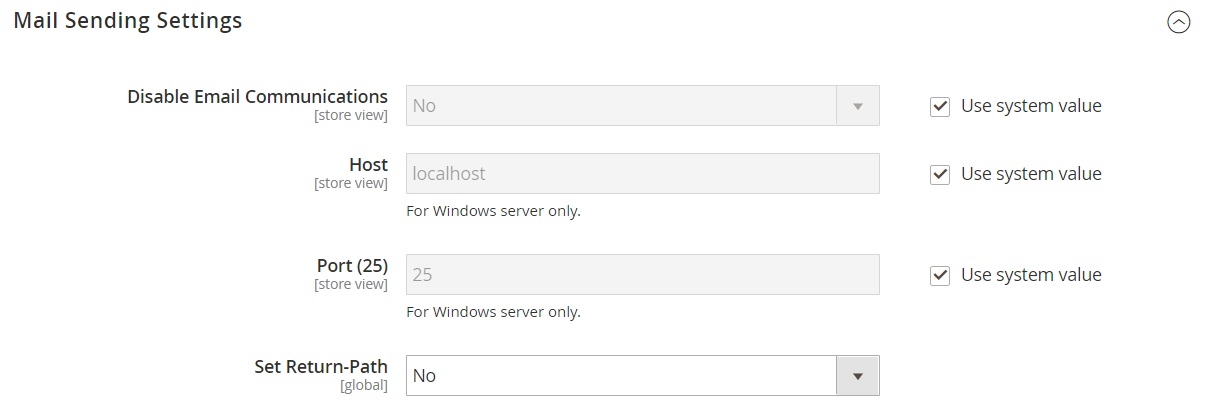
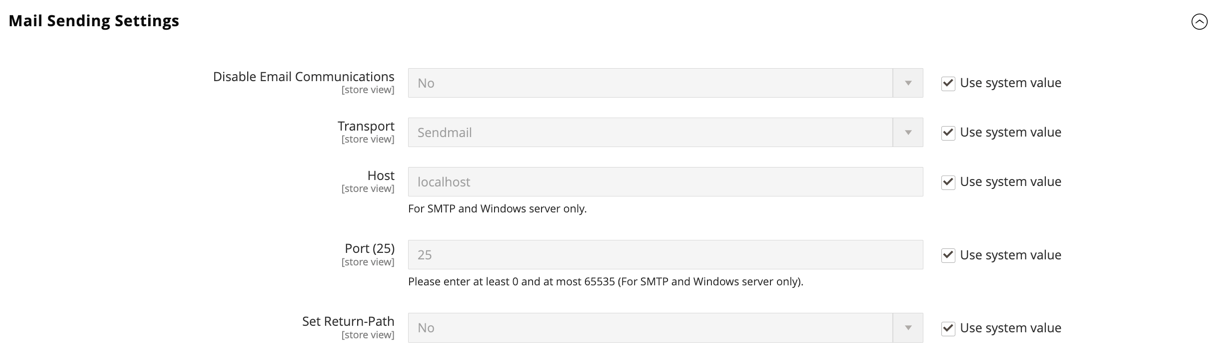
COMDOX-549: Add SMTP email config

diff --git a/help/configuration-reference/advanced/system.md b/help/configuration-reference/advanced/system.md
@@ -27,7 +27,7 @@ For more information about changing these configuration settings, see [Cron (sch
 |[!UICONTROL Failure History Lifetime]|Global|Determines the number of minutes that the record of failed cron jobs is kept in the database.|
 |[!UICONTROL Use Separate Process]|Global|Determines if cron jobs are executed in parallel as separate processes. Options: `Yes` / `No`|
 
-{:style="table-layout:auto"}
+{style="table-layout:auto"}
 
 ### [!UICONTROL default]
 
@@ -43,7 +43,7 @@ For more information about changing these configuration settings, see [Cron (sch
 |[!UICONTROL Failure History Lifetime]|Global|Determines the number of minutes that the record of failed cron jobs is kept in the database.|
 |[!UICONTROL Use Separate Process]|Global|Determines if cron jobs are executed in parallel as separate processes. Options: `Yes` / `No`|
 
-{:style="table-layout:auto"}
+{style="table-layout:auto"}
 
 ## [!UICONTROL MySQL Message Queue Cleanup]
 
@@ -58,7 +58,7 @@ For more information about changing these configuration settings, see [Cron (sch
 |[!UICONTROL Failed Messages Lifetime]|Global|Determines the lifetime of failed messages in minutes. Enter zero to skip the cleanup. Default: `10080` (7 days)|
 |[!UICONTROL Retry Messages in Progress After]|Global|Determines how long the system waits for a message in progress before retrying. Default: `1440` (24 hours)|
 
-{:style="table-layout:auto"}
+{style="table-layout:auto"}
 
 ## [!UICONTROL Mail Sending Settings]
 
@@ -68,17 +68,32 @@ For more information about changing these settings, see [Configure email communi
 
 >[!IMPORTANT]
 >
->**Security Notice** We recommend that all merchants immediately set their mail sending configuration to protect against a recently identified potential remote code execution exploit. Until this issue is resolved, we highly recommend that you avoid using [!DNL Sendmail] for email communications. In the [!UICONTROL Mail Sending Settings], make sure that [!UICONTROL Set Return Path] is set to `No`.
+>**Security Notice** We recommend that all merchants immediately set their mail sending configuration to protect against a recently identified potential remote code execution exploit. Until this issue is resolved, it is highly recommended that you avoid using [!DNL Sendmail] for email communications. In the [!UICONTROL Mail Sending Settings], make sure that [!UICONTROL Set Return Path] is set to `No`.
 
 |Field|[Scope](../../getting-started/websites-stores-views.md#scope-settings)|Description|
 |--- |--- |--- |
 |[!UICONTROL Disable Email Communications]|Store View|Determines if email communications are activated for the store. Options: `Yes` / `No`|
-|[!UICONTROL Host]|Store View|(For Windows server only) Determines the name that is used to refer to the host. Default value: `localhost`|
-|[!UICONTROL Port (25)]|Store View|(For Windows server only) Identifies the port used for email communications. Default value: `25`|
+|[!UICONTROL Transport] |Store View| Determines the transport type for email communications from the store. Options: `Sendmail` / `SMTP` |
+|[!UICONTROL Host]|Store View|(For SMTP and Windows servers only) Determines the name that is used to refer to the host. Default value: `localhost`|
+|[!UICONTROL Port (25)]|Store View|(For SMTP and Windows servers only) Identifies the port used for email communications. Default value: `25`|
 |[!UICONTROL Set Return-Path]|Store View|Determines if a routing address is used for returned emails. Options: `No` / `Yes` / `Specified`|
-|[!UICONTROL Return-Path Email]|Global|Specifies the routing email address for returned emails.|
 
-{:style="table-layout:auto"}
+{style="table-layout:auto"}
+
+### SMTP options
+
+When you select SMTP at the transport type, additional options are available to configure the SMTP server connection.
+
+![Advanced configuration - Mail Sending Settings with SMTP](./assets/system-mail-sending-settings-smtp.png)<!-- zoom -->
+
+|Field|[Scope](../../getting-started/websites-stores-views.md#scope-settings)|Description|
+|--- |--- |--- |
+|[!UICONTROL Username] | Store View | Login user name for the SMTP server. |
+|[!UICONTROL Password] | Store View | Password for the SMTP server login. |
+|[!UICONTROL Auth] | Store View | Determines th authentication type for the SMTP server connection. Options: `NONE` / `PLAIN` / `LOGIN` |
+|[!UICONTROL SSL] | Store View | Determines verification type for the host security certificate. Options: `SSL` / `TLS` |
+
+{style="table-layout:auto"}
 
 ## [!UICONTROL Currency]
 
@@ -90,7 +105,7 @@ For more information about changing this setting, see [Currency configuration](.
 |--- |--- |--- |
 |[!UICONTROL Installed Currencies]|Global|Indicates the currencies that are currently available to the Commerce installation. Options include all available currencies, with installed currencies selected.|
 
-{:style="table-layout:auto"}
+{style="table-layout:auto"}
 
 ## [!UICONTROL Security]
 
@@ -103,7 +118,7 @@ For more information about changing these settings, see [Session management](../
 |[!UICONTROL Max Session Size in Admin]|Global|Limit the maximum session size in bytes. Use `0` to disable.|
 |[!UICONTROL Max Session Size in Storefront]|Global|Limit the maximum session size in bytes. Use `0` to disable.|
 
-{:style="table-layout:auto"}
+{style="table-layout:auto"}
 
 ## [!UICONTROL Notifications]
 
@@ -117,7 +132,7 @@ For more information about changing these settings, see [System notifications](.
 |Update Frequency|Global|Determines the frequency of Admin message updates. Options: `1 Hour` / `2 Hours` / `6 Hours` / `12 Hours` / `24 Hours`|
 |[!UICONTROL Last Update]|Global|Indicates the date and time of the last message update.|
 
-{:style="table-layout:auto"}
+{style="table-layout:auto"}
 
 ## [!UICONTROL Scheduled Backup Settings]
 
@@ -135,7 +150,7 @@ For more information about changing these settings, see [System backups](../../s
 |[!UICONTROL Frequency]|Global|Determines how often the scheduled backup takes place. Options: `Daily` / `Weekly` / `Monthly`|
 |[!UICONTROL Maintenance Mode]|Global|Determines if the store is put in maintenance mode during the scheduled backup. Options: `Yes` / `No`|
 
-{:style="table-layout:auto"}
+{style="table-layout:auto"}
 
 ## [!UICONTROL Admin Actions Log Archiving]
 
@@ -150,7 +165,7 @@ For more information about changing these settings, see [Action log archive](../
 |[!UICONTROL Log Entry Lifetime, Days]|Store View|Determines the number of days that admin actions are kept in the Admin Actions archive. Default: `60`|
 |[!UICONTROL Log Archiving Frequency]|Store View|Determines how often the Admin Actions logs are archived. Options: `Daily` / `Weekly` / `Monthly`|
 
-{:style="table-layout:auto"}
+{style="table-layout:auto"}
 
 ## [!UICONTROL Full Page Cache]
 
@@ -174,7 +189,7 @@ For more information about changing these settings, see [Full-page caching](../.
 |[!UICONTROL Export VCL for Varnish 5]|Global|Exports the `varnish.vcl` file for version 5.|
 |[!UICONTROL Export VCL for Varnish 6]|Global|Exports the `varnish.vcl` file for version 6.|
 
-{:style="table-layout:auto"}
+{style="table-layout:auto"}
 
 ## [!UICONTROL Storage Configuration for Media]
 
@@ -187,7 +202,7 @@ For more information about changing these settings, see [Use a Media Database](.
 |[!UICONTROL Media Storage]|Global|Determines the method used to store media files. Default setting: `File System`|
 |[!UICONTROL Environment Update Time]|Global|Determines the frequency of the media file environment updates in seconds. Default value: `3600`|
 
-{:style="table-layout:auto"}
+{style="table-layout:auto"}
 
 ![Advanced configuration - Storage Configuration for Media - Database](./assets/database-storage-deprecated.png)<!-- zoom -->
 
@@ -202,7 +217,7 @@ For more information about changing these settings, see [Use a Media Database](.
 |[!UICONTROL Synchronize]||Synchronizes the transfer of all media to the specified database location.|
 |Environment Update Time|Global|Determines the frequency of the media file environment updates in seconds. Default value: `3600`|
 
-{:style="table-layout:auto"}
+{style="table-layout:auto"}
 
 ## [!UICONTROL Bulk Actions]
 
@@ -216,7 +231,7 @@ For more information about changing these settings, see [Bulk actions](../../sys
 |--- |--- |--- |
 |[!UICONTROL Days Saved in Log]|Global|Determines the number of days that bulk actions are kept in the _Bulk Actions Log_ archive. Default: `60`|
 
-{:style="table-layout:auto"}
+{style="table-layout:auto"}
 
 ## [!UICONTROL Scheduled Import/Export File History Cleaning]
 
@@ -237,7 +252,7 @@ For more information about changing these settings, see [Scheduled import and ex
 |[!UICONTROL Error Email Sender]|Global|Identifies the store contact that appears as the sender of the notification. Default sender: `General Contact`|
 |[!UICONTROL Error Email Template]|Global|Identifies the email template that is used for the import/export file cleaning-error notification. Default template: `File History Clean Failed`|
 
-{:style="table-layout:auto"}
+{style="table-layout:auto"}
 
 ## [!UICONTROL Image Upload Configuration]
 
@@ -247,12 +262,12 @@ For more information about changing these settings, see [Scheduled import and ex
 
 |Field|[Scope](../../getting-started/websites-stores-views.md#scope-settings)|Description|
 |--- |--- |--- |
-|[!UICONTROL Quality]|Global|Determines the JPG quality for the resized image. Lower quality reduces the file size. We recommend 80-90% to help reduce file size with high quality. Default: `80`|
+|[!UICONTROL Quality]|Global|Determines the JPG quality for the resized image. Lower quality reduces the file size. Use 80-90% to help reduce file size with high quality. Default: `80`|
 |[!UICONTROL Enable Frontend Resize]|Global|Enable this setting to allow Commerce to resize large, oversized images you may upload for the _Product Details_ page. Commerce resizes the image files using JavaScript before uploading the file. When the image is resized, it keeps the exact proportions to meet and not exceed the largest size for Maximum Width or Maximum Height. Default: `Yes`|
 |[!UICONTROL Maximum Width]|Global|Determines the maximum pixel width for the image. When the image is resized, it does not exceed this width. Default: `1920`|
 |[!UICONTROL Maximum Height]|Global|Determines the maximum pixel height for the image. When the image is resized, it does not exceed this height. Default: `1200`|
 
-{:style="table-layout:auto"}
+{style="table-layout:auto"}
 
 ## [!UICONTROL Media Gallery]
 
@@ -262,7 +277,7 @@ For more information about changing these settings, see [Scheduled import and ex
 |--- |--- |--- |
 |[!UICONTROL Enable Old Media Gallery]|Global|Enables or disables the old Media Gallery.|
 
-{:style="table-layout:auto"}
+{style="table-layout:auto"}
 
 ## [!UICONTROL Media Gallery Image Optimization]
 
@@ -274,7 +289,7 @@ For more information about changing these settings, see [Scheduled import and ex
 |[!UICONTROL Maximum Width]|Global|The maximum width (in pixels) for images inserted from Media Gallery into the content.|
 |[!UICONTROL Maximum Height]|Global|The maximum height (in pixels) for images inserted from Media Gallery into the content.|
 
-{:style="table-layout:auto"}
+{style="table-layout:auto"}
 
 ## [!UICONTROL Adobe Stock Integration]
 
@@ -289,4 +304,4 @@ For more information about configuring these settings, see [Adobe Stock Integrat
 |[!UICONTROL Client Secret]|Global|The Client Secret for your Adobe Stock integration is required.|
 |[!UICONTROL Test Connection]||Runs a test to verify that the API key is valid for use with the Adobe Stock service.|
 
-{:style="table-layout:auto"}
+{style="table-layout:auto"}

diff --git a/help/systems/email-communications.md b/help/systems/email-communications.md
@@ -5,15 +5,13 @@ exl-id: 7e62e9c5-f214-4fd5-becc-99dcb093cd5c
 ---
 # Configure email communications
 
-The _Mail Sending Settings_ give you the ability to route returned email or replies to email to a specific address. Also, if your store is running on a Windows server, you can verify the host and port settings.
+The _Mail Sending Settings_ give you the ability to route returned email or replies to email to a specific address. If your store is running on an SMTP or Windows server, you can verify the host and port settings.
 
 >[!IMPORTANT]
 >
->**Security Notice** All merchants should immediately set their mail sending configuration to protect against a recently identified potential remote code execution exploit. Until this issue is resolved, we highly recommend that you avoid using Sendmail for email communications. In the Mail Sending Settings, make sure that Set Return Path is set to `No`.
+>**Security Notice** All merchants should immediately set their mail sending configuration to protect against a recently identified potential remote code execution exploit. Until this issue is resolved, it is highly recommended that you avoid using [!DNL Sendmail] for email communications. In the _[!UICONTROL Mail Sending Settings]_, make sure that _[!UICONTROL Set Return Path]_ is set to `No`.
 
-![Advanced configuration - mail sending settings](../configuration-reference/advanced/assets/system-mail-sending-settings.png)<!-- zoom -->
-
-For a detailed list of the configuration settings, see [_Mail Sending Settings_](../configuration-reference/advanced/system.md) in the _Configuration Reference_.
+For a detailed list of the configuration settings, see [_[!UICONTROL Mail Sending Settings]_](../configuration-reference/advanced/system.md) in the _Configuration Reference_.
 
 ## Configure email communications
 
@@ -23,19 +21,32 @@ For a detailed list of the configuration settings, see [_Mail Sending Settings_]
 
 1. Expand ![Expansion selector](../assets/icon-display-expand.png) the **[!UICONTROL Mail Sending Settings]** section and do the following:
 
+   ![Advanced configuration - mail sending settings](../configuration-reference/advanced/assets/system-mail-sending-settings.png)<!-- zoom -->
+
    - If necessary, set **[!UICONTROL Disable Email Communications]** to `No`.
 
-   - If running on a Windows server, verify the following settings:
+   - For **[!UICONTROL Transport]**, choose the transport type for email communications from the store: `Sendmail` or `SMTP`
 
-      [!UICONTROL Host] - `localhost`
+   - If running on an SMTP or Windows server, verify the following settings:
 
-      [!UICONTROL Port (25)] - `25`
+      - **[!UICONTROL Host]** - `localhost` or other
+
+      - **[!UICONTROL Port (25)]** - `25` or other
 
    - For **[!UICONTROL Set Return Path]**, choose one of the following options:
 
       - `No` - (Recommended security measure) Routes returned email to the default store email address.
       - `Yes` - Routes returned email to the default store email address.
       - `Specified` - Routes returned email to the email address specified in **[!UICONTROL Return Path Email]**.
+
+   - If running on an SMTP server, configure the connection:
+
+      - **[!UICONTROL Username]** - Enter the login user name for the SMTP server.
+      - **[!UICONTROL Password]** - Enter the password for the SMTP server login.
+      - **[!UICONTROL Auth]** - Choose the authentication type for the SMTP server connection: `NONE` , `PLAIN`, or `LOGIN`
+      - **[!UICONTROL SSL]** - Choose the verification type for the server security certificate: `SSL` or `TLS`
+
+      ![Advanced configuration - mail sending settings](../configuration-reference/advanced/assets/system-mail-sending-settings-smtp.png)<!-- zoom -->
 
 1. In the left panel, expand **[!UICONTROL Sales]** and choose **[!UICONTROL Sales Emails]**.
 

diff --git a/help/landing/home.md b/help/landing/home.md
@@ -113,10 +113,11 @@ Adobe offers two Commerce editions to fit the requirements of your eCommerce bus
 
 | Description | Type | Date |
 | ----------- | ---- | ---- |
-| **2.4.6 release** - Updated the [Products list](../catalog/products-list.md) and [Admin configuration reference](../configuration-reference/advanced/admin.md) topics to include information about product display limitations that can be used to improve performance for large catalogs. | Update | 02/28/23 |
-| **2.4.6 release** - Updated the [Create and delete customer segments](../customers/customer-segment-create.md) and [Customer Configuration reference](../configuration-reference/customers/customer-configuration.md) topics to include information about real-time validation for segments. | Update | 02/28/23 |
-| **2.4.6 release** - Updated the [Braintree](../stores-purchase/braintree.md) and [Braintree configuration reference](../configuration-reference/sales/braintree.md) topics to reflect updated and new payment options supported by the bundled Braintree integration. | Update | 02/28/23 |
-| **2.4.6 release** - Updated the [Currency configuration](../stores-purchase/currency-configuration.md) and [Currency Setup configuration](../configuration-reference/general/currency-setup.md) topics to include the new [!DNL Fixer API] (APILayer) option. | Update | 02/28/23 |
+| **2.4.6 release** - Updated the [Products list](../catalog/products-list.md) and [Admin configuration reference](../configuration-reference/advanced/admin.md) topics to include information about product display limitations that can be used to improve performance for large catalogs. | Update | 03/15/23 |
+| **2.4.6 release** - Updated the [Create and delete customer segments](../customers/customer-segment-create.md) and [Customer Configuration reference](../configuration-reference/customers/customer-configuration.md) topics to include information about real-time validation for segments. | Update | 03/15/23 |
+| **2.4.6 release** - Updated the [Braintree](../stores-purchase/braintree.md) and [Braintree configuration reference](../configuration-reference/sales/braintree.md) topics to reflect updated and new payment options supported by the bundled Braintree integration. | Update | 03/15/23 |
+| **2.4.6 release** - Updated the [Currency configuration](../stores-purchase/currency-configuration.md) and [Currency Setup configuration](../configuration-reference/general/currency-setup.md) topics to include the new [!DNL Fixer API] (APILayer) option. | Update | 03/15/23 |
+| **2.4.6 release** - Updated the [Configure email communications](../systems/email-communications.md) and [System configuration reference](../configuration-reference/advanced/system.md#uicontrol-mail-sending-settings) topics to include the new SMTP option for email communications. | Update | 03/15/23 |
 | **New topic** - Added the [Transfer a Commerce account](../getting-started/commerce-account-transfer.md) topic to the _Getting Started Guide_. | New | 02/27/23 |
 | **New guide** - Content now published in the Experience League: [Customer Management Guide](../customers/guide-overview.md) | Move | 12/5/2022 |
 | **New guide** - Content now published in the Experience League: [Configuration Reference Guide](../configuration-reference/guide-overview.md) | Move | 12/1/2022 |
